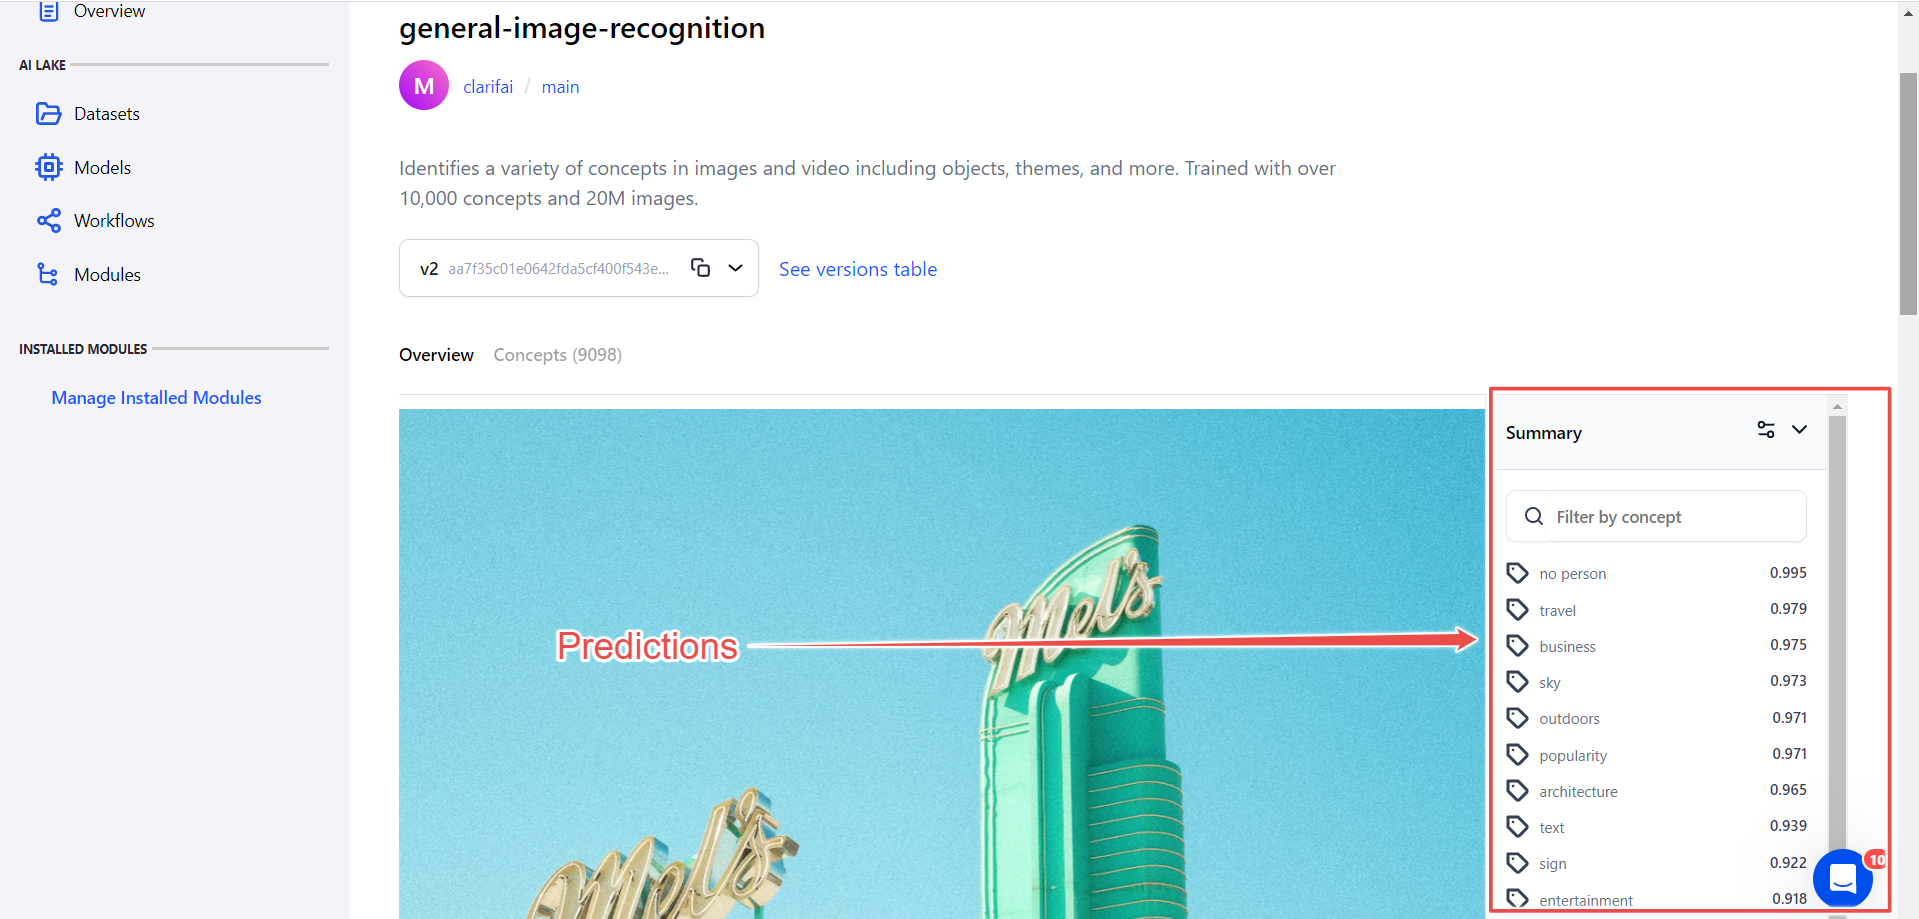
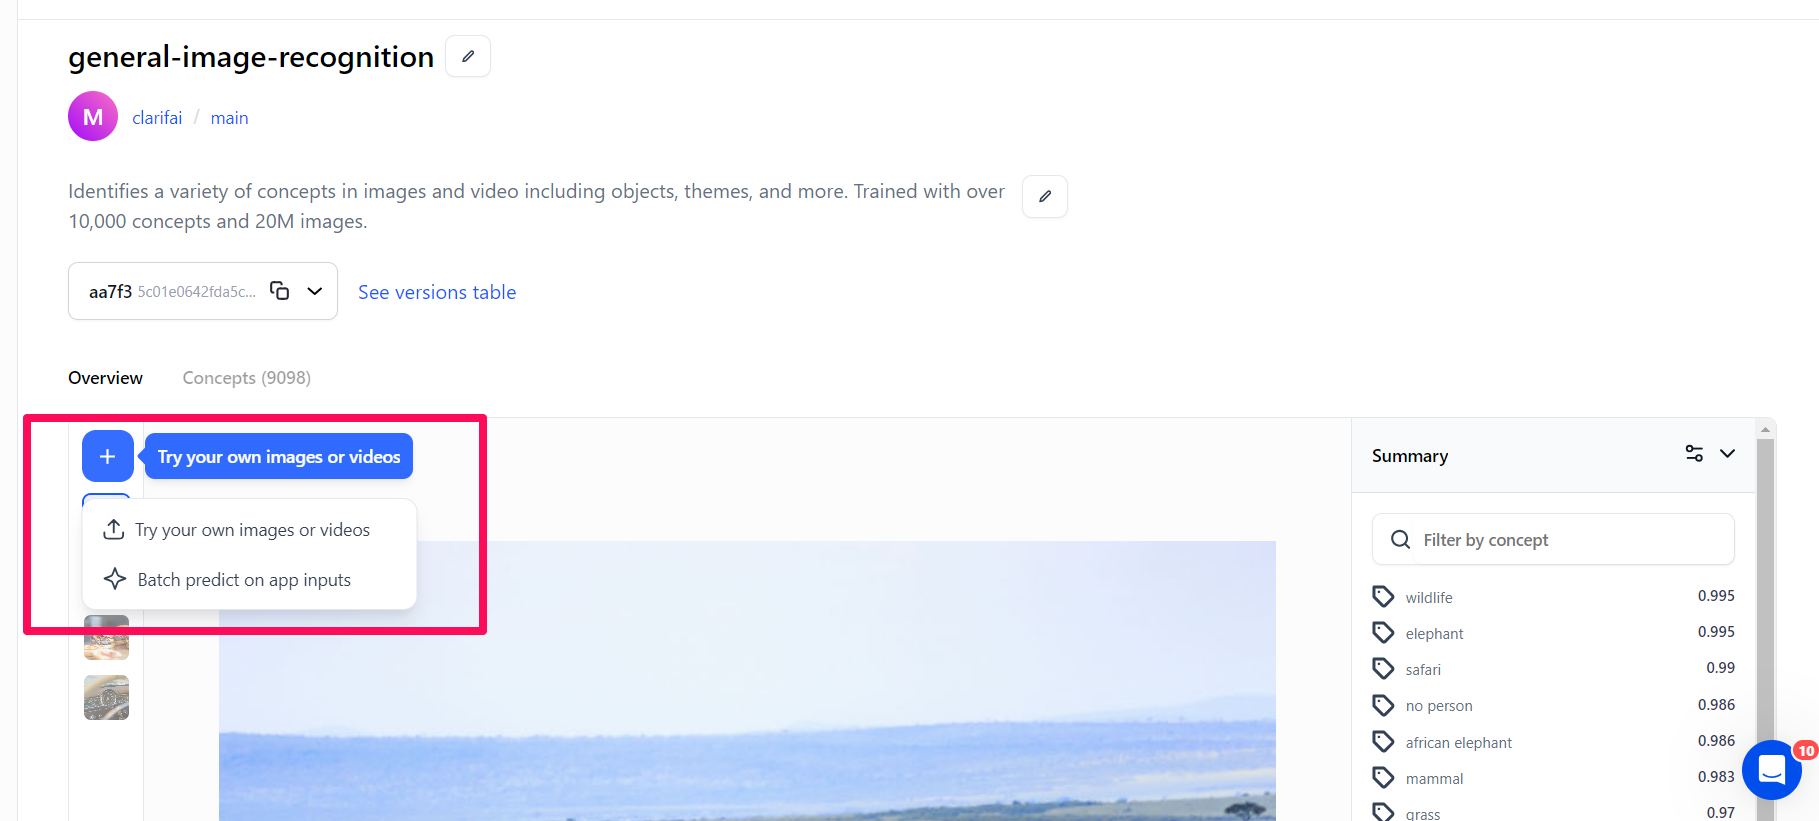
DOC-452 <MOLI tickets>

diff --git a/docs/portal-guide/ppredict.md b/docs/portal-guide/ppredict.md
@@ -8,15 +8,47 @@ sidebar_position: 3
 **Dynamic AI model orchestration and inference scaling**
 <hr />
 
-You can use the Clarifai portal to analyze your inputs and understand what's inside of them. The portal will return a list of [concepts](https://docs.clarifai.com/portal-guide/concepts/create-get-update-delete) with corresponding probabilities of how likely it is that these concepts are contained within the provided inputs.
+You can use the Clarifai portal to analyze your inputs and understand what's inside of them. The portal will return a list of [concepts](https://docs.clarifai.com/portal-guide/concepts/create-get-update-delete) with corresponding probabilities of how likely these concepts are contained within the provided inputs.
 
-Predictions are ready the moment you upload an input. You can make predictions using custom or public models and workflows. You can search for your preferred model on the [Community platform](https://clarifai.com/explore) and use it to make predictions. 
+Predictions are ready the moment you upload an input. You can make predictions using public or custom models and workflows. You can search for your preferred models on the [Community platform](https://clarifai.com/explore) and use them to make predictions. 
 
-For example, you can use the pre-built Clarifai's [general-image-recognition](https://clarifai.com/clarifai/main/models/general-image-recognition) model to identify a variety of concepts in an image. To do so, navigate to the model's page and click the **Try your own image or video** button to upload an image you want to view its predictions. 
+## Example
+
+You can use the pre-built Clarifai's [general-image-recognition](https://clarifai.com/clarifai/main/models/general-image-recognition) model to identify a variety of concepts in images. 
+
+To do so, navigate to the model’s viewer screen and click the blue **Try your own images or videos** button. A modal will pop up, providing a convenient interface for adding input data and examining predictions.
+
+![](/img/community_2/model_predictions.png)
+
+The modal provides three distinct options for making predictions.
+
+### Try Your Own Images or Videos
+
+This option lets you add an input and see its predictions without leaving the Model-Viewer screen. If you click the button, a small window will pop up, allowing you to upload your input.
+
+![](/img/community_2/model_predictions-2.png)
 
 After uploading the image, the model will analyze it and return a list of concepts identified on the right-hand side of the page. 
 
-![](/img/community_2/model_predictions.png)
+### Batch Predict on App Inputs
+
+This option lets you select an app and a dataset. If you click the button, a small window will pop up, allowing you to choose an app and a dataset with the inputs you want to view their predictions. 
+
+![](/img/community_2/model_predictions-3.png)
+
+After selecting an app and a dataset, click the **Try Inputs** button. 
+
+You’ll be redirected to the Input-Viewer screen with the default mode set to Predict, allowing you to see the predictions on an input based on your selections.
+
+![](/img/community_2/model_predictions-4.png)
+
+### Add Public Preview Examples
+
+This option lets model owners add public preview examples. It's only visible on the Model-Viewer screen of a model you own. 
+
+If you click the button, a small window will pop up, allowing you to add public prediction examples for anyone who wants to see how your model works. 
+
+![](/img/community_2/model_predictions-5.png)
 
 :::info
 

diff --git a/docs/api-guide/predict/text.md b/docs/api-guide/predict/text.md
@@ -14,6 +14,18 @@ The file size of each text input should be less than 20MB.
 
 You need to specify your choice of [model](https://clarifai.com/explore/models?filterData=%5B%7B%22field%22%3A%22input_fields%22%2C%22value%22%3A%5B%22text%22%5D%7D%5D&page=1&perPage=24) for prediction by utilizing the `MODEL_ID` parameter.
 
+:::tip
+
+Most of our models now have new versions that support inference hyperparameters like temperature, top_k, etc. You can learn how to configure them [here](https://docs.clarifai.com/api-guide/predict/llms/#use-hyperparameters-to-customize-llms). 
+
+:::
+
+:::info
+
+The initialization code used in the following examples is outlined in detail on the [client installation page.](https://docs.clarifai.com/api-guide/api-overview/api-clients/#client-installation-instructions)
+
+:::
+
 import Tabs from '@theme/Tabs';
 import TabItem from '@theme/TabItem';
 import CodeBlock from "@theme/CodeBlock";
@@ -71,12 +83,6 @@ These models learn patterns and features in the text data during training, enabl
 ### Predict via URL 
 
 Below is an example of how you would make predictions on passages of text hosted on the web from the [`multilingual-uncased-sentiment`](https://clarifai.com/nlptownres/text-classification/models/multilingual-uncased-sentiment) model. 
-
-:::info
-
-The initialization code used in the following examples is outlined in detail on the [client installation page.](https://docs.clarifai.com/api-guide/api-overview/api-clients/#client-installation-instructions)
-
-:::
 
 <Tabs>
 <TabItem value="python" label="Python">
@@ -190,12 +196,6 @@ Text-to-image generation involves creating visual images based on textual descri
 Then, when given a textual input, these models can generate images that accurately reflect the content described in the text.
 
 Below is an example of how you would perform text-to-image generation using the [Stable Diffusion XL](https://clarifai.com/stability-ai/stable-diffusion-2/models/stable-diffusion-xl) model.
-
-:::tip
-
-[Click here](https://docs.clarifai.com/api-guide/predict/llms/#use-hyperparameters-to-customize-llms) to learn how to configure the inference parameters such as temperature, max tokens, and more, for text-to-image generative tasks. 
-
-:::
 
 <Tabs>
 

diff --git a/docs/api-guide/model/import-model.md b/docs/api-guide/model/import-model.md
@@ -12,16 +12,16 @@ The Clarifai platform allows you to import and integrate externally developed, p
 
 Once imported, the model will be deployed and ready to be evaluated, fine-tuned and customized, combined with other models and agent operators in a workflow, or used to serve inference requests as it is.
 
-Two main ways are:
-
-- **[Hugging Face Importation](https://docs.clarifai.com/portal-guide/model/hf-model-importer):** Find and import pre-trained models from the Hugging Face platform.
-- **[Local Model Upload](https://docs.clarifai.com/portal-guide/model/local-model-upload):** Upload your own trained models if they meet Clarifai's format requirements.
-
 :::info
 
 The import model functionality is exclusively available to Enterprise users.
 
 :::
+
+Two main ways are:
+
+- **[Hugging Face Importation](https://docs.clarifai.com/portal-guide/model/hf-model-importer):** Find and import pre-trained models from the Hugging Face platform.
+- **[Local Model Upload](https://docs.clarifai.com/portal-guide/model/local-model-upload):** Upload your own trained models if they meet Clarifai's format requirements.
 
 import Tabs from '@theme/Tabs';
 import TabItem from '@theme/TabItem';
@@ -68,6 +68,12 @@ import NodeImport6 from "!!raw-loader!../../../code_snippets/api-guide/model/imp
 import JavaImport6 from "!!raw-loader!../../../code_snippets/api-guide/model/import-model/import_6.java";
 import PHPImport6 from "!!raw-loader!../../../code_snippets/api-guide/model/import-model/import_6.php";
 import CurlImport6 from "!!raw-loader!../../../code_snippets/api-guide/model/import-model/import_6.sh";
+
+:::info
+
+The initialization code used in the following examples is outlined in detail on the [client installation page.](https://docs.clarifai.com/api-guide/api-overview/api-clients/#client-installation-instructions)
+
+:::
 
 ## Hugging Face Importation
 

diff --git a/docs/api-guide/predict/llms.md b/docs/api-guide/predict/llms.md
@@ -180,10 +180,9 @@ Here are some parameters we support:
 
 :::tip
 
-You can configure the inference parameters for both text-to-text and [text-to-image](https://docs.clarifai.com/api-guide/predict/text#text-to-image-generation) generative tasks. 
+Most of our models now have new versions that support inference hyperparameters like temperature, top_k, etc. This example illustrates how you can configure them. 
 
 :::
-
 
 <Tabs>
 <TabItem value="python" label="Python">
